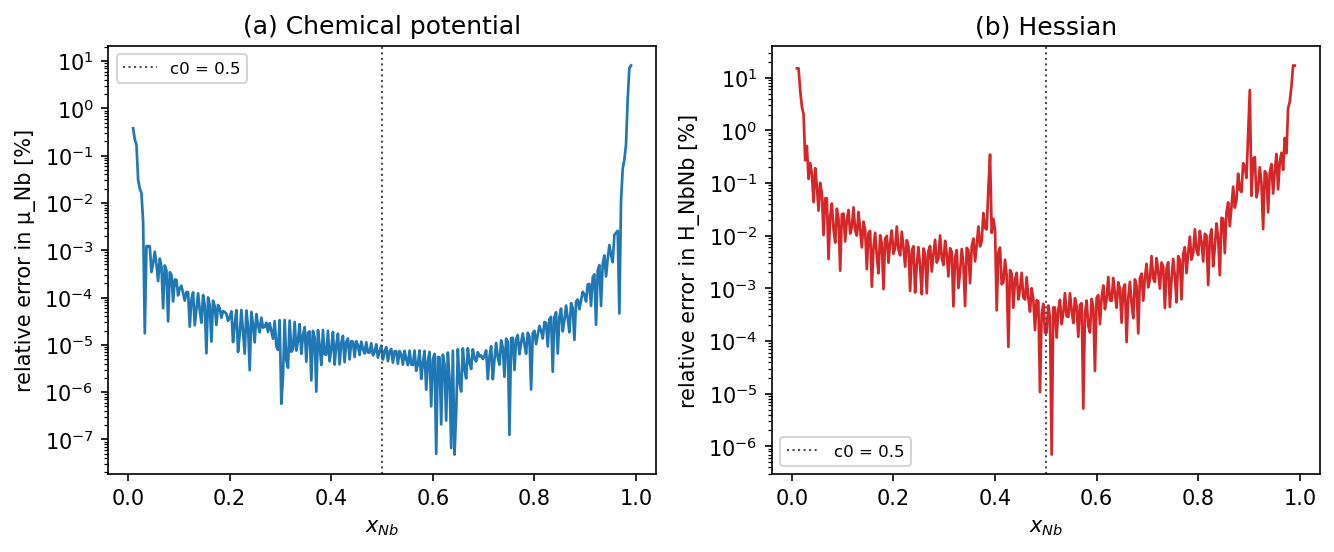
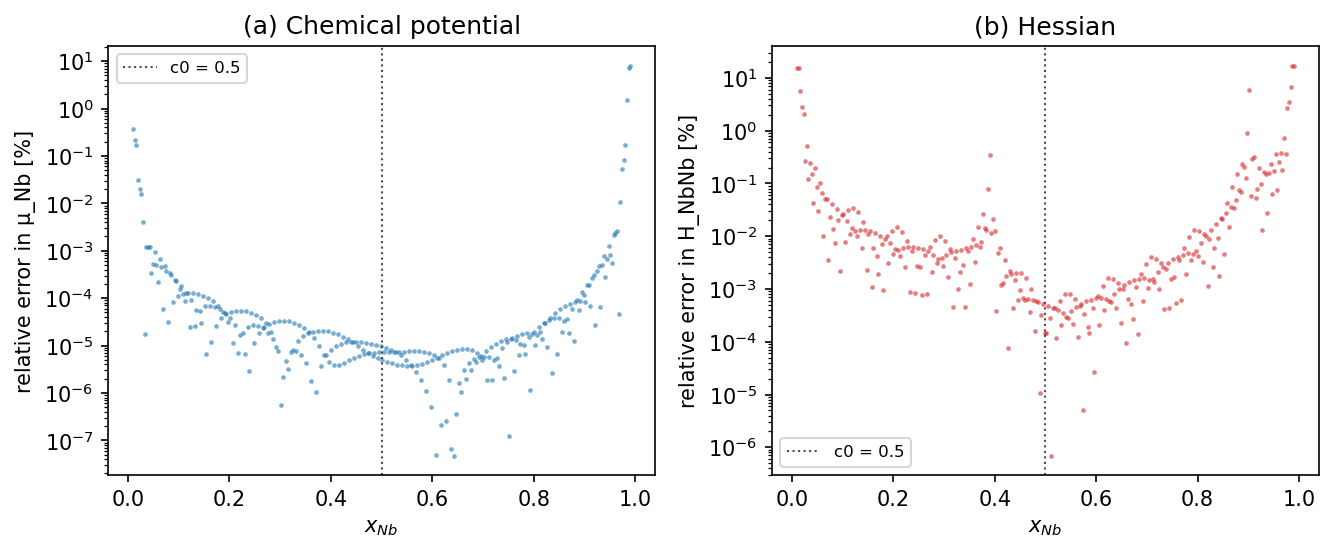
Plot the relative-error figure as discrete points, not a connected line
Connecting 300 independent per-composition evaluations with a line implied
continuous structure that isn't really there. Add a paragraph explaining
the fine ripple visible in the interior: GmInterpolant fits G_m and the
raw MU/dMU columns as separate cubic splines, whose third derivative jumps
at each of the 200 raw grid knots, so FD-vs-Jansson disagreement oscillates
at the raw grid's spatial frequency — a property of comparing two
independently-fit splines at sub-grid resolution, not a defect.

diff --git a/docs/tutorial_derivative_validation.md b/docs/tutorial_derivative_validation.md
@@ -236,6 +236,19 @@ disagreement (10⁻⁴–10⁻⁵%, limited only by floating-point precision) ac
 most of the composition range, rising sharply to several percent — and, at
 the very edge, double digits — as `x_Nb → 0` or `x_Nb → 1`.
 
+Points are plotted individually rather than connected by a line, because
+each of the 300 points is an independent evaluation, and connecting them
+would draw a continuous curve implying structure that is not actually
+there. The visible fine-grained ripple within the flat interior region is
+real but not meaningful on its own: `GmInterpolant` fits a separate cubic
+spline to each of `G_m(x)` (used by FD) and the raw `MU`/`dMU` columns
+(used by Jansson), and a cubic spline's third derivative — which sets the
+local truncation error of a central difference — is only piecewise
+constant, jumping at every one of the 200 raw composition grid points.
+The ripple's spacing tracks that raw grid spacing directly; it is a
+property of comparing two independently-fit splines at sub-grid
+resolution, not a sign of a problem with either derivative method.
+
 **Numeric summary at the composition used throughout this site's binary
 tutorials (`c0 = 0.5`):** 0.000007% for `μ`, 0.000144% for `H` — six-figure
 agreement, consistent with the RMSE table's `jansson` row reading exactly
